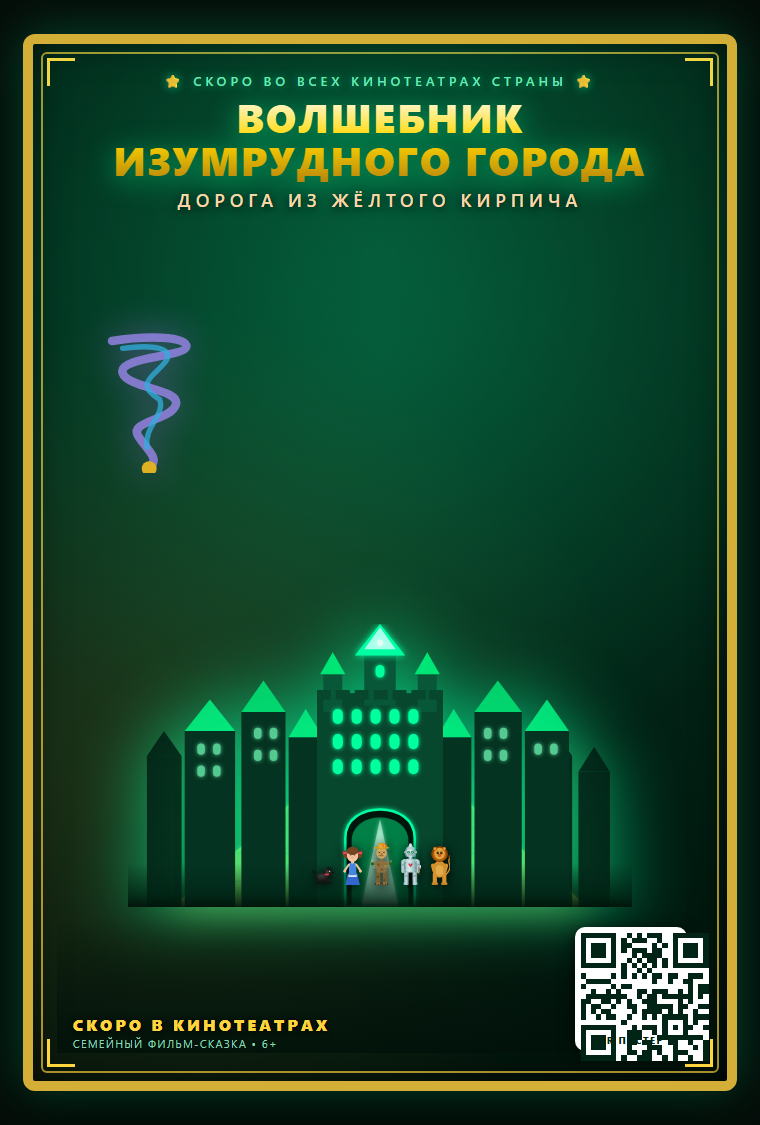
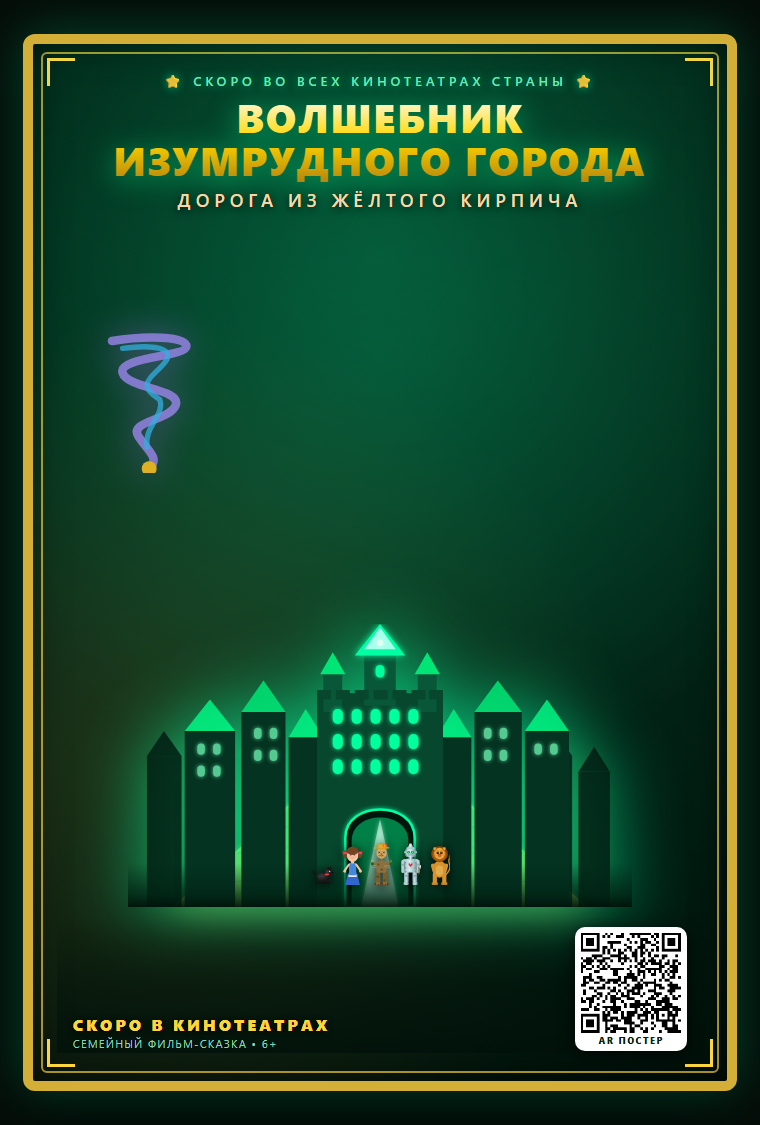
Fix QR code to permanently encode https://k11298379-sudo.github.io/ar/ with high-contrast error correction

Changed region(s): [[0.7566, 0.8089, 0.9382, 0.9644]]

diff --git a/index.html b/index.html
@@ -858,17 +858,12 @@
   }
 
   function getSiteUrl() {
-    if (location.hostname !== 'localhost' && location.hostname !== '127.0.0.1' && !location.hostname.startsWith('192.168.')) {
-      return window.location.origin + window.location.pathname;
-    }
-    if (serverInfo && serverInfo.public_url) return serverInfo.public_url;
-    if (serverInfo && serverInfo.phone_url)  return serverInfo.phone_url;
     return 'https://k11298379-sudo.github.io/ar/';
   }
 
   function updatePhoneModalUrl(url) {
     if (!modalLink) return;
-    const finalUrl = url || getSiteUrl();
+    const finalUrl = 'https://k11298379-sudo.github.io/ar/';
     modalLink.textContent = finalUrl;
     modalLink.href = finalUrl;
 
@@ -879,9 +874,9 @@
           text: finalUrl,
           width: 160,
           height: 160,
-          colorDark: "#022416",
+          colorDark: "#000000",
           colorLight: "#ffffff",
-          correctLevel: QRCode.CorrectLevel.M
+          correctLevel: QRCode.CorrectLevel.H
         });
         return;
       } catch (e) {
@@ -894,22 +889,7 @@
     }
   }
 
-  // Если открыто на настоящем сайте в интернете — сразу генерируем ссылку на этот сайт
-  if (location.hostname !== 'localhost' && location.hostname !== '127.0.0.1' && !location.hostname.startsWith('192.168.')) {
-    updatePhoneModalUrl(window.location.origin + window.location.pathname);
-  } else {
-    fetch('/api/info')
-      .then(r => r.json())
-      .then(d => {
-        if (d) {
-          serverInfo = d;
-          updatePhoneModalUrl(d.public_url || d.phone_url);
-        }
-      })
-      .catch(() => {
-        updatePhoneModalUrl(window.location.href);
-      });
-  }
+  updatePhoneModalUrl();
 
   if (btnPhone) {
     btnPhone.addEventListener('click', () => {

diff --git a/poster.html b/poster.html
@@ -216,6 +216,14 @@
     #qrcode-canvas {
       width: clamp(80px, 14vw, 100px);
       height: clamp(80px, 14vw, 100px);
+      display: flex;
+      align-items: center;
+      justify-content: center;
+    }
+    #qrcode-canvas canvas,
+    #qrcode-canvas img {
+      width: 100% !important;
+      height: 100% !important;
       display: block;
     }
     .qr-badge-caption {
@@ -334,11 +342,11 @@
         try {
           new QRCode(qrContainer, {
             text: targetUrl,
-            width: 128,
-            height: 128,
-            colorDark: "#022416",
+            width: 140,
+            height: 140,
+            colorDark: "#000000",
             colorLight: "#ffffff",
-            correctLevel: QRCode.CorrectLevel.M
+            correctLevel: QRCode.CorrectLevel.H
           });
           return;
         } catch (e) {
@@ -348,7 +356,7 @@
 
       // 2. Фолбэк на онлайн генератор
       const img = document.createElement('img');
-      img.src = `https://api.qrserver.com/v1/create-qr-code/?size=150x150&data=${encodeURIComponent(targetUrl)}`;
+      img.src = `https://api.qrserver.com/v1/create-qr-code/?size=160x160&data=${encodeURIComponent(targetUrl)}`;
       img.style.width = '100%';
       img.style.height = '100%';
       img.alt = 'QR Code';
@@ -356,9 +364,7 @@
     }
 
     function getSiteUrl() {
-      if (location.hostname !== 'localhost' && location.hostname !== '127.0.0.1' && !location.hostname.startsWith('192.168.')) {
-        return window.location.origin + window.location.pathname.replace(/poster\.html$/i, '');
-      }
+      // ВСЕГДА ведём строго на рабочий сайт AR на GitHub Pages!
       return 'https://k11298379-sudo.github.io/ar/';
     }
 
